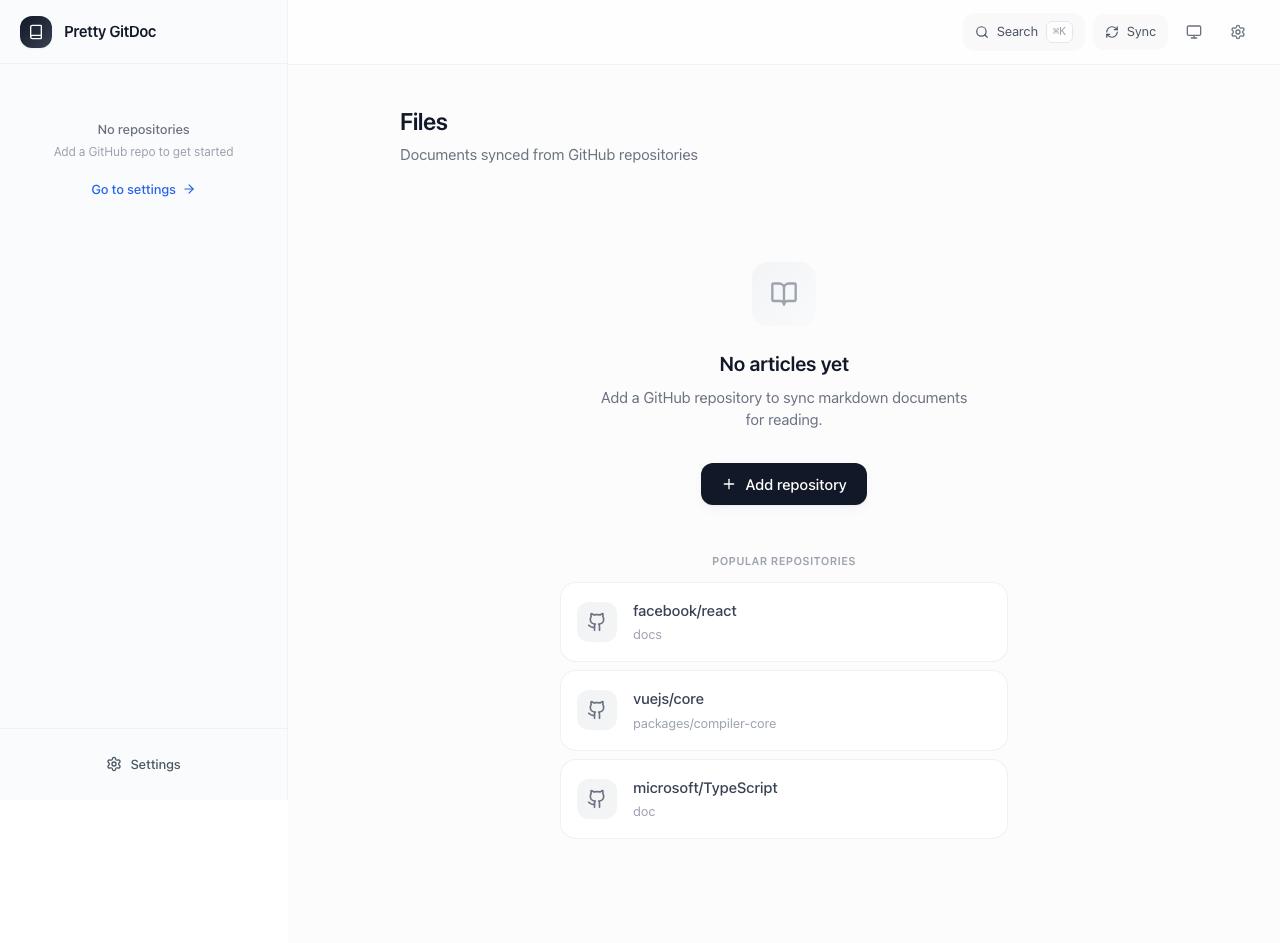
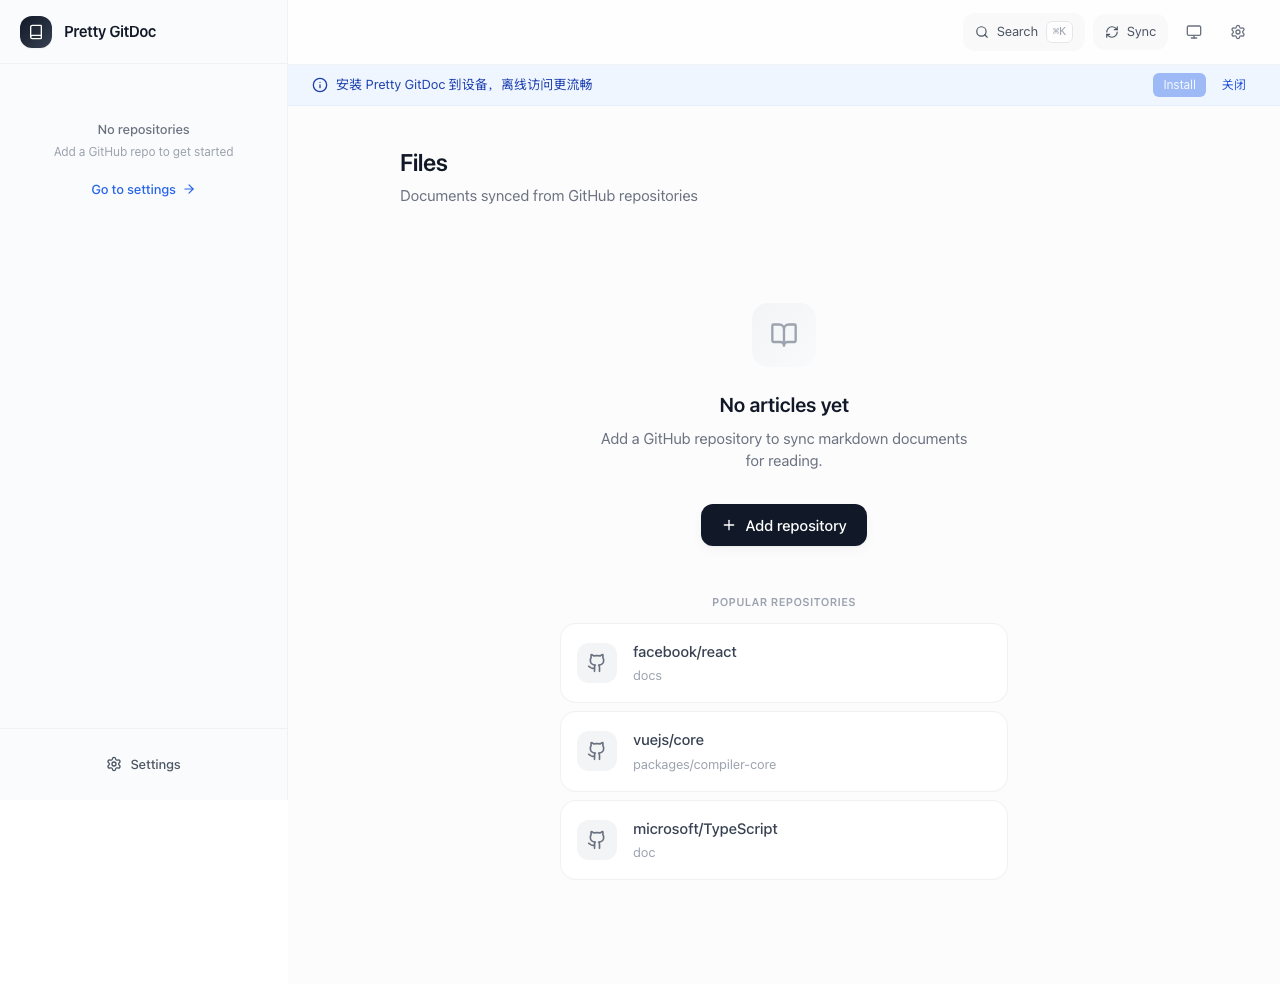
docs: update README with Release downloads and new screenshots
- Add Releases download option as primary installation method
- Add PWA installation guide for mobile users
- Update screenshots (home, settings, pwa-install)
- Reorganize installation options (Releases → PWA → Online → Vercel → Dev)

diff --git a/README.md b/README.md
@@ -96,13 +96,37 @@ graph LR
 
 ## 安装指南 (Installation)
 
-### 选项 A: 在线体验 (推荐)
+### 选项 A: 从 Releases 下载 (推荐)
 
-访问在线演示地址，无需安装即可体验完整功能：
+前往 GitHub Releases 下载对应平台的安装包：
+
+| 平台 | 格式 | 说明 |
+| --- | --- | --- |
+| __macOS__ | `.dmg` | 支持 Apple Silicon & Intel |
+| __Windows__ | `.msi` / `.exe` | 安装包或便携版 |
+| __Linux__ | `.deb` / `.AppImage` | Debian/Ubuntu 或通用 |
+
+> **下载地址**: [GitHub Releases](https://github.com/frankfika/prettygitdoc/releases)
+
+### 选项 B: PWA 安装 (移动端推荐)
+
+1. 在手机浏览器中打开:https://prettygitdoc.vercel.app
+2. 点击浏览器菜单中的"添加到主屏幕"(iOS) 或"安装应用"(Android)
+3. 像原生 App 一样使用，支持离线访问
+
+> **iOS 用户**: Safari → 分享 → 添加到主屏幕
+
+### 选项 C: 在线体验
+
+无需安装，直接访问在线演示地址：
 
 > **在线地址**: https://prettygitdoc.vercel.app
 
-### 选项 B: 本地开发
+### 选项 D: Vercel 一键部署
+
+[![Deploy with Vercel](https://vercel.com/button)](https://vercel.com/new/clone?repository-url=https://github.com/frankfika/prettygitdoc)
+
+### 选项 E: 本地开发
 
 ```bash
 # 克隆仓库
@@ -113,30 +137,8 @@ cd prettygitdoc
 npm install
 
 # 启动开发服务器
-npm run dev
+npm run dev# http://localhost:3000
 ```
-
-> **访问地址**: http://localhost:3001
-
-### 选项 C: 生产部署
-
-```bash
-# 构建生产版本
-npm run build
-
-# 启动生产服务器
-PORT=3002 npm run start
-```
-
-> **访问地址**: http://localhost:3002
-
-### 选项 D: Vercel 一键部署
-
-1. 点击下方按钮一键部署到 Vercel
-2. 授权 Vercel 访问您的 GitHub
-3. 自动完成构建与部署
-
-[![Deploy with Vercel](https://vercel.com/button)](https://vercel.com/new/clone?repository-url=https://github.com/frankfika/prettygitdoc)
 
 ## 🔌 快速接入示例
 
